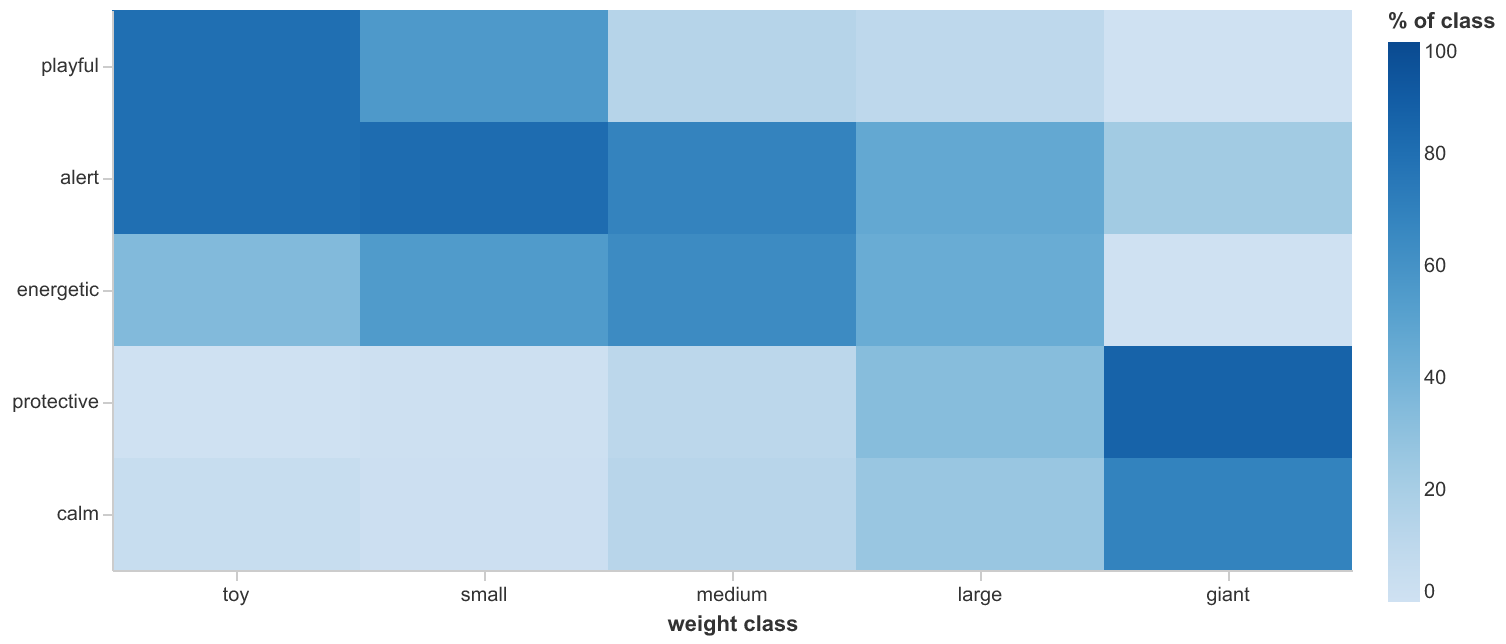
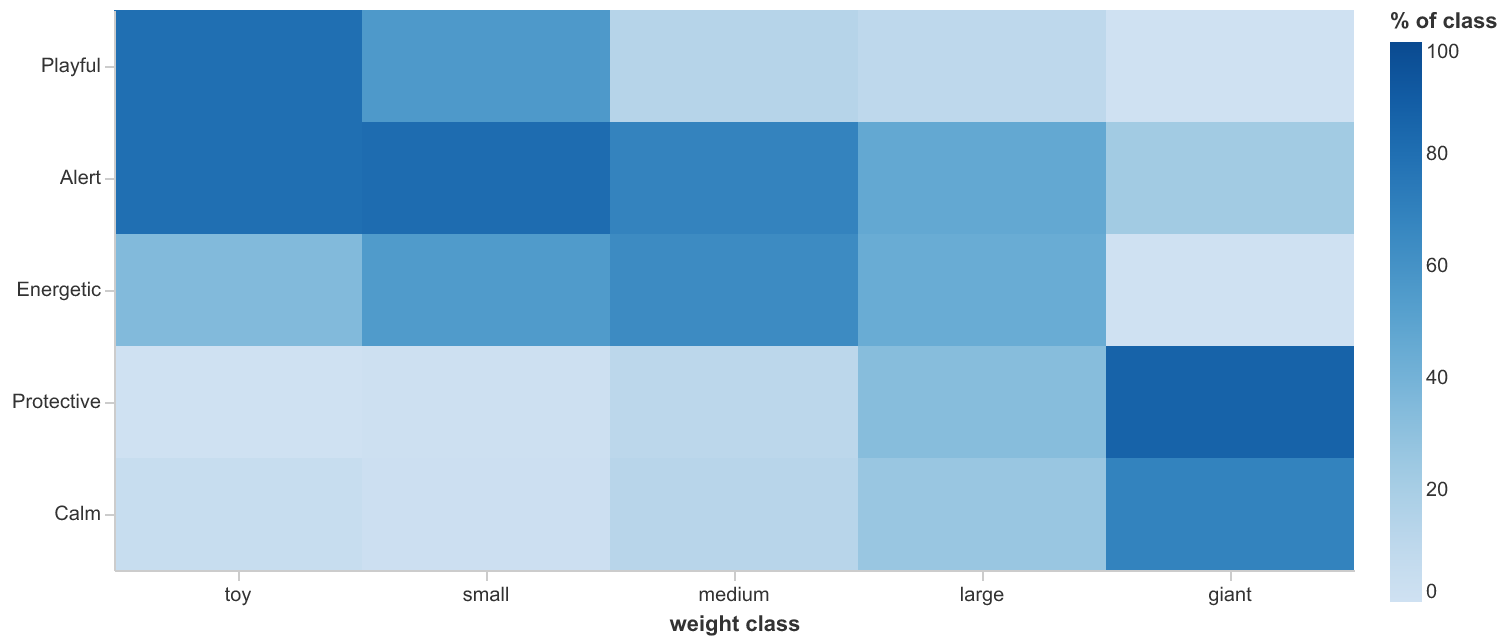
fix: render the temperament label in the heatmap, not the lowercase key
mart_size_class_temperaments now carries temperament_display (1:1 with the key, verified) from the
bridge; the heatmap renders that label while filter/join/sort stay on the lowercase temperament and
order comes from the seed's sort_order. Presentation stays in gold, not a .str.title() in the app.
Contract + SPEC/DASHBOARD updated; the heatmap screenshot re-rendered.

diff --git a/dashboard/app.py b/dashboard/app.py
@@ -270,9 +270,13 @@ st.divider()
 # --- D · how does temperament shift with size? (heatmap) ---------------------------------------
 st.header("How does temperament shift with size?")
 tags = seed_tags()
-temp = q("select size_class, temperament, breed_count, breeds_in_class, pct_of_class "
+temp = q("select size_class, temperament, temperament_display, breed_count, breeds_in_class, pct_of_class "
          "from main_marts.mart_size_class_temperaments")
 temp = temp[temp["temperament"].isin(tags) & (temp["size_class"] != "unknown")]
+# Group / filter / sort on the lowercase KEY; RENDER the sentence-cased LABEL (both come from gold —
+# no title-casing in the app). The seed's sort_order is keyed to the lowercase temperament, so build
+# a key→label map and order the labels by that key order.
+label = dict(zip(temp["temperament"], temp["temperament_display"]))
 # Reindex onto the full 5×5 grid so absent (tag,class) pairs draw as an explicit 0% cell rather
 # than a hole. This is presentation reshaping (a 0 read from absence), not a computed fact.
 grid = pd.MultiIndex.from_product([tags, CLASS_ORDER], names=["temperament", "size_class"]).to_frame(index=False)
@@ -281,17 +285,19 @@ temp = grid.merge(temp, on=["temperament", "size_class"], how="left")
 temp["pct_of_class"] = temp["pct_of_class"].fillna(0.0)
 temp["breed_count"] = temp["breed_count"].fillna(0).astype(int)
 temp["breeds_in_class"] = temp["size_class"].map(class_n).astype(int)
+temp["temperament_display"] = temp["temperament"].map(label)   # fill the label on the reindexed rows
+label_order = [label[t] for t in tags]                          # labels in the seed's sort_order
 HEAT_H = 260
 heat = (
     alt.Chart(temp)
     .mark_rect()
     .encode(
         x=alt.X("size_class:N", sort=CLASS_ORDER, title="weight class", axis=alt.Axis(labelAngle=0)),
-        y=alt.Y("temperament:N", sort=tags, title=None),
+        y=alt.Y("temperament_display:N", sort=label_order, title=None),
         color=alt.Color("pct_of_class:Q", scale=alt.Scale(scheme="blues", domain=[0, 100]),
                         # top-align the colour bar with the top of the heatmap: span it the full plot height
                         legend=alt.Legend(title="% of class", gradientLength=HEAT_H, titleOrient="top")),
-        tooltip=[alt.Tooltip("temperament:N", title="trait"),
+        tooltip=[alt.Tooltip("temperament_display:N", title="trait"),
                  alt.Tooltip("size_class:N", title="class"),
                  alt.Tooltip("pct_of_class:Q", title="% of class", format=".0f"),
                  alt.Tooltip("breed_count:Q", title="breeds"),

diff --git a/SPEC.md b/SPEC.md
@@ -31,7 +31,7 @@ Business logic lives in dbt gold; the dashboard stays thin.
 | gold | `mart_size_class_temperaments` | dbt | grain: (size_class, temperament) — count + % within class |
 | gold | `mart_data_coverage` | dbt | one row — what each chart drops (627 total, 585 plotted) |
 | seed | `size_class_bands` | dbt seed | the ONLY home of the bucket boundaries |
-| seed | `dashboard_temperament_tags` | dbt seed | **config for the dashboard heatmap** (M6): curated tag list + `sort_order`. NOT a data grid — carries no `pct_of_class`; the cut stays in the read layer. `mart_size_class_temperaments` is **unchanged** |
+| seed | `dashboard_temperament_tags` | dbt seed | **config for the dashboard heatmap** (M6): curated tag list + `sort_order`. NOT a data grid — carries no `pct_of_class`; the cut stays in the read layer. The seed leaves `mart_size_class_temperaments` **unchanged** (the mart later gained a `temperament_display` render label, M6, unrelated to the seed) |
 
 ## Materialization & schemas
 
@@ -271,7 +271,7 @@ Raw holds 628; `dim_breeds` holds **627**. Every count below is post-dedupe.
 |---|---|---|
 | breed_id | INTEGER | FK → dim_breeds |
 | temperament | VARCHAR | **lowercased + trimmed** tag (group on this) |
-| temperament_display | VARCHAR | sentence-cased for the dashboard. **Never group on this** |
+| temperament_display | VARCHAR | sentence-cased LABEL for the dashboard. **Never group on this *as the key*** (casing could split a tag); carrying it 1:1 *alongside* the lowercase key into a mart for rendering is the intended use — `mart_size_class_temperaments` does exactly that (M6) |
 
 Built by splitting `temperament_raw` on ',', trimming, lowercasing. **Verified: 3,538 rows · 45
 distinct tags · 626 of 627 breeds · 5.6 tags/breed.**
@@ -593,7 +593,10 @@ on `size_class` is drift waiting to happen.
   aggregate). The number quoted in the narrative is computed by dbt, tested and reproducible —
   not a `df.corr()` in the dashboard.
 - **`mart_size_class_temperaments`** — grain: **(size_class, temperament)**.
-  `size_class, temperament, breed_count, breeds_in_class, pct_of_class`.
+  `size_class, temperament, temperament_display, breed_count, breeds_in_class, pct_of_class`.
+  **`temperament_display` (M6):** the sentence-cased label carried 1:1 from the bridge, so the heatmap
+  RENDERS it without title-casing in the app (presentation lives in gold). The lowercase `temperament`
+  stays the key for filter/join/sort; the label is display-only.
   For each size class, how often each temperament tag appears. "Characteristic" here means nothing
   cleverer than **most frequent within the group** — a `GROUP BY size_class, temperament` with a
   `COUNT`, joining two tables that already exist (`ref('breed_temperaments')` → `ref('dim_breeds')`).

diff --git a/DASHBOARD.md b/DASHBOARD.md
@@ -52,7 +52,7 @@ never triggers the pipeline; it reads whatever gold currently holds.
 | — | longest-lived top-5 (below the scatter) | `mart_size_vs_lifespan` | filter/sort of the *same* mart; shows each breed's **published range** (min–max) |
 | C1 | mean life span ± 1σ, per class | `mart_size_class_summary` | mean line + `stddev_life_span_years`; y zoomed ±10%, band-aware so the σ bars aren't clipped |
 | C3 | why weight, not height (closes C) | `mart_metric_correlation` | 3 rows + explanation — justifies the weight x-axis |
-| D | temperament heatmap | `mart_size_class_temperaments` (unchanged) | curated tags (seed `dashboard_temperament_tags`) × 5 classes, colour = `pct_of_class` |
+| D | temperament heatmap | `mart_size_class_temperaments` (+ `temperament_display` label) | curated tags (seed `dashboard_temperament_tags`) × 5 classes, colour = `pct_of_class`, y = the label |
 
 **Order within section C is scatter → mean line → correlation** (raw breeds first, then the summary,
 then the axis justification), decided in M6 — not the line-first order this spec was first drafted in.
@@ -288,7 +288,9 @@ per-class summary, then the axis justification. (Drafted line-first; **reordered
 - **Chart:** a **heatmap** (Altair `mark_rect` on the mart's long rows — no pivot, no reshape into
   wide in the app):
   - **x** = `size_class`, sorted toy → small → medium → large → giant.
-  - **y** = `temperament`, sorted by the seed's `sort_order`.
+  - **y** = **`temperament_display`** (the sentence-cased label, carried 1:1 in the mart), **sorted by
+    the seed's `sort_order`** — which is keyed to the lowercase `temperament`, so the app filters and
+    orders on the *key* and renders the *label* (a key→label map, no title-casing in the app).
   - **colour** = `pct_of_class`, the sequential ramp §4 fixes (dark = higher).
 - **Why a heatmap and NOT the radars this spec first proposed** — the reason is the one this project
   already enforces for the count/life-span pair. A radar's stated finding ("the shape *rotates* as
